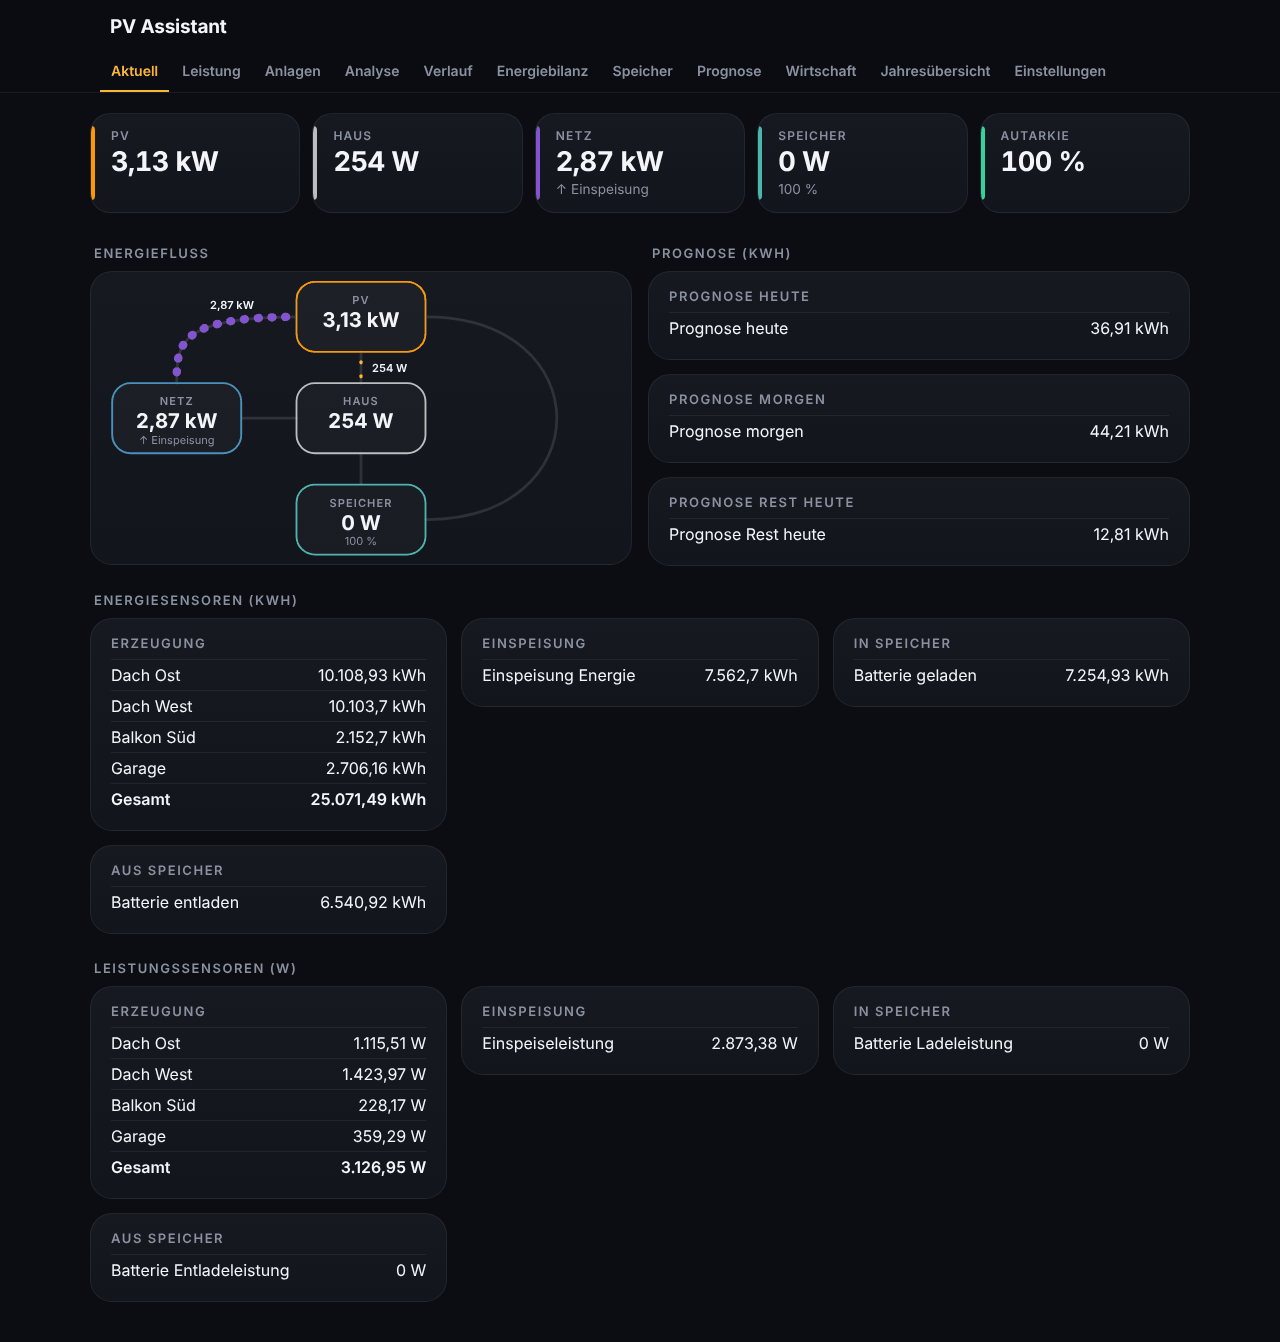
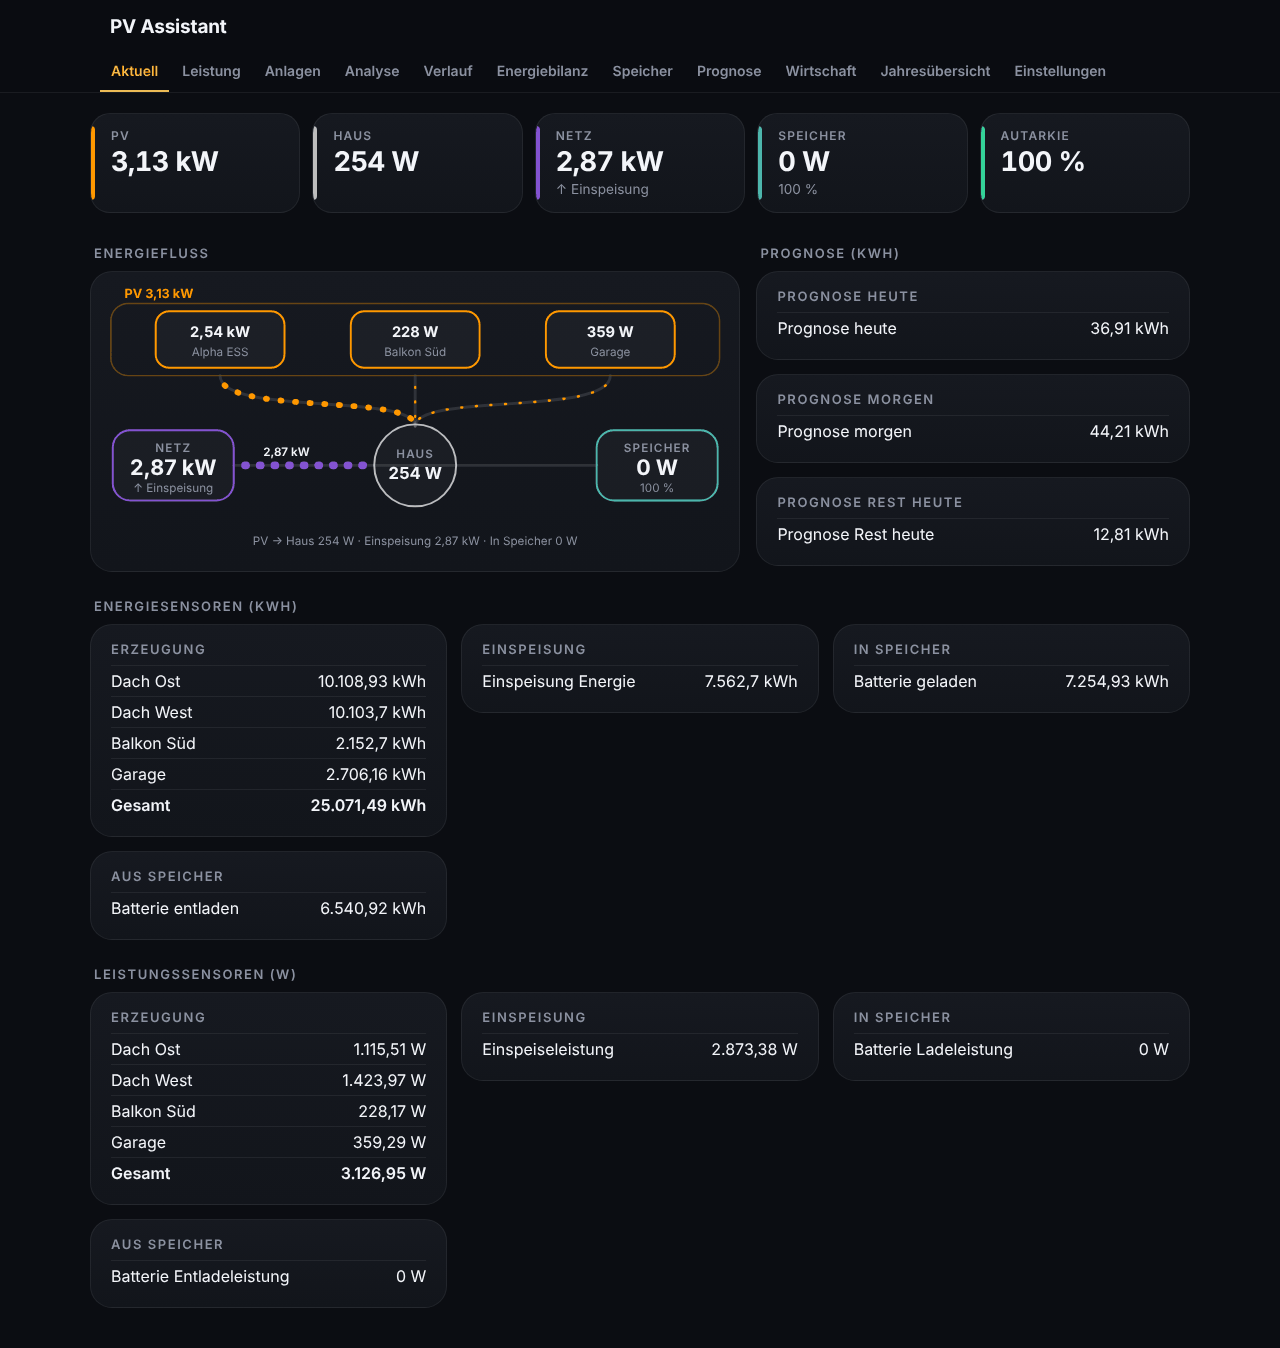
Show the solar plants in a row above the home in the energy flow, with their own power
Claude-Session: https://claude.ai/code/session_01TaJYM5KB2UjSXtUd6GEyfY

diff --git a/custom_components/pv_assistant/frontend/pv-assistant-panel.js b/custom_components/pv_assistant/frontend/pv-assistant-panel.js
@@ -514,17 +514,21 @@ class PVAssistantPanel extends HTMLElement {
           .kpi span { display:block; color:var(--g-muted); font-size:12px; letter-spacing:.1em; text-transform:uppercase; font-weight:600; }
           .kpi b { display:block; font-size:1.7em; font-weight:700; letter-spacing:-.02em; font-variant-numeric:tabular-nums; margin-top:2px; }
           .kpi small { color:var(--g-muted); font-size:.85em; }
-          .nowtop { display:grid; grid-template-columns:minmax(0,1fr) minmax(0,1fr); gap:0 16px; align-items:start; }
-          .nowtop:has(#nowside:empty) { grid-template-columns:minmax(0,560px); }
+          .nowtop { display:grid; grid-template-columns:minmax(0,3fr) minmax(0,2fr); gap:0 16px; align-items:start; }
+          .nowtop:has(#nowside:empty) { grid-template-columns:minmax(0,640px); }
           .grid.side { grid-template-columns:1fr; }
           @media (max-width:820px) { .nowtop { grid-template-columns:1fr; } }
           .flowcard { padding:8px 12px; }
-          svg.flow { display:block; width:100%; max-width:560px; margin:0 auto; color:var(--g-text); }
+          svg.flow { display:block; width:100%; max-width:640px; margin:0 auto; color:var(--g-text); }
           svg.flow .track { fill:none; stroke:currentColor; stroke-width:3; opacity:.12; stroke-linecap:round; }
           svg.flow .run { fill:none; stroke-linecap:round; stroke-dasharray:1 14; animation:pvaflow 1.1s linear infinite; }
           @keyframes pvaflow { to { stroke-dashoffset:-15; } }
           @media (prefers-reduced-motion: reduce) { svg.flow .run { animation:none; stroke-dasharray:none; opacity:.8; } }
           svg.flow .flowlbl { font-size:12px; font-weight:600; }
+          svg.flow .flowpv { font-size:15px; font-weight:700; }
+          svg.flow .flowpv.hub { font-size:17px; }
+          svg.flow .flowtotal { fill:var(--pva-prod); font-size:13px; font-weight:700; }
+          svg.flow .pvframe { fill:none; stroke:var(--pva-prod); stroke-opacity:.35; stroke-width:1.5; }
           svg.flow .flowbox { fill:var(--g-tile); stroke-width:2; }
           svg.flow text { fill:var(--g-text); font-family:inherit; }
           svg.flow .flowname { fill:var(--g-muted); font-size:12px; letter-spacing:.1em; text-transform:uppercase; font-weight:600; }
@@ -757,72 +761,110 @@ class PVAssistantPanel extends HTMLElement {
   _renderFlow() {
     const box = this._root.getElementById("flow");
     if (!box || !this._cfg) return;
-    if (!this._keys().P.prod.length) { box.replaceChildren(); this._flowBuilt = false; return; }
+    const P = this._keys().P;
+    if (!P.prod.length) { box.replaceChildren(); this._flowBuilt = false; return; }
     const NS = "http://www.w3.org/2000/svg";
     const el = (tag, attrs = {}, text) => { const n = document.createElementNS(NS, tag); for (const [k, v] of Object.entries(attrs)) n.setAttribute(k, v); if (text !== undefined) n.textContent = text; return n; };
+    const cut = (t, n) => (t.length > n ? `${t.slice(0, n - 1)}…` : t);
+    // the plants (inverters) in a row on top, the home in the middle, grid left and storage right
+    const plants = plantsOf(this._cfg.settings, P.prod).map((p) => ({
+      sensors: p.sensors,
+      name: p.name || p.sensors.map((id) => this._read(id).name).join(" + "),
+    }));
+    const layoutKey = plants.map((p) => p.sensors.join("+") + p.name).join("|");
+    if (this._flowBuilt && this._flowKey !== layoutKey) this._flowBuilt = false;
+    const HUB = [320, 190];
     if (!this._flowBuilt) {
       this._flowBuilt = true;
-      this._flow = {};
+      this._flowKey = layoutKey;
+      this._flow = { plants: [] };
       box.innerHTML = `<h2>${esc(this._t("flowTitle"))}</h2>`;
       const card = document.createElement("div");
       card.className = "card flowcard";
-      const svg = el("svg", { viewBox: "0 0 560 300", class: "flow", role: "img", "aria-label": this._t("flowTitle") });
-      // the home sits in the middle: solar above, grid left, storage below; solar to storage runs around the home on the right.
-      // flows: [key, path (source to destination), color, label x, y, anchor]
-      const flows = [
-        ["sh", "M280,78 L280,112", "--pva-direct", [292, 100, "start"]],
-        ["gh", "M150,150 L210,150", "--pva-grid", [180, 140, "middle"]],
-        ["bh", "M280,222 L280,188", "--pva-bout", [292, 210, "start"]],
-        ["sg", "M210,40 C80,40 80,70 80,112", "--pva-feed", [140, 32, "middle"]],
-        ["sb", "M350,40 C540,40 540,260 350,260", "--pva-bin", [525, 150, "end"]],
-      ];
-      for (const [key, d, color, [x, y, anchor]] of flows) {
+      const svg = el("svg", { viewBox: "0 0 640 290", class: "flow", role: "img", "aria-label": this._t("flowTitle") });
+      const n = plants.length;
+      const slot = 600 / n, bw = Math.min(132, slot - 8);
+      svg.append(el("rect", { x: 8, y: 24, width: 624, height: 74, rx: 18, class: "pvframe" }));
+      this._flow.total = el("text", { x: 22, y: 18, class: "flowtotal" });
+      svg.append(this._flow.total);
+      plants.forEach((p, i) => {
+        const cx = 20 + slot * (i + 0.5);
+        const d = `M${cx},98 C${cx},140 ${HUB[0]},115 ${HUB[0]},${HUB[1] - 40}`;
         svg.append(el("path", { d, class: "track" }));
-        const run = el("path", { d, class: "run", stroke: `var(${color})`, visibility: "hidden" });
-        const label = el("text", { x, y, "text-anchor": anchor, class: "flowlbl" });
-        svg.append(run, label);
-        this._flow[key] = { run, label };
-      }
-      const nodes = [
-        ["solar", 280, 40, "--pva-prod", this._t("flowSolar")],
-        ["home", 280, 150, "--pva-house", this._t("flowHome")],
-        ["grid", 80, 150, "--pva-grid", this._t("flowGrid")],
-        ["bat", 280, 260, "--pva-bout", this._t("flowBattery")],
-      ];
-      for (const [key, x, y, color, name] of nodes) {
+        const run = el("path", { d, class: "run", stroke: "var(--pva-prod)", visibility: "hidden" });
+        svg.append(run);
         const g = el("g", { class: "flownode" });
-        g.append(el("rect", { x: x - 70, y: y - 38, width: 140, height: 76, rx: 20, class: "flowbox", stroke: `var(${color})` }));
-        g.append(el("text", { x, y: y - 14, "text-anchor": "middle", class: "flowname" }, name));
-        const val = el("text", { x, y: y + 11, "text-anchor": "middle", class: "flowval" });
-        const sub = el("text", { x, y: y + 28, "text-anchor": "middle", class: "flowsub" });
-        g.append(val, sub);
+        g.append(el("rect", { x: cx - bw / 2, y: 32, width: bw, height: 58, rx: 14, class: "flowbox", stroke: "var(--pva-prod)" }));
+        const val = el("text", { x: cx, y: 58, "text-anchor": "middle", class: "flowpv" });
+        g.append(val, el("text", { x: cx, y: 78, "text-anchor": "middle", class: "flowsub" }, cut(p.name, Math.max(6, Math.floor(bw / 7)))));
         svg.append(g);
-        this._flow[key] = { g, val, sub };
-      }
+        this._flow.plants.push({ run, val, sensors: p.sensors });
+      });
+      // hub: the home
+      svg.append(el("circle", { cx: HUB[0], cy: HUB[1], r: 42, class: "flowbox", stroke: "var(--pva-house)" }));
+      svg.append(el("text", { x: HUB[0], y: HUB[1] - 8, "text-anchor": "middle", class: "flowname" }, this._t("flowHome")));
+      this._flow.home = el("text", { x: HUB[0], y: HUB[1] + 14, "text-anchor": "middle", class: "flowpv hub" });
+      svg.append(this._flow.home);
+      const side = (key, x, name, color) => {
+        const g = el("g", { class: "flownode" });
+        g.append(el("rect", { x: x - 62, y: HUB[1] - 36, width: 124, height: 72, rx: 18, class: "flowbox", stroke: `var(${color})` }));
+        g.append(el("text", { x, y: HUB[1] - 14, "text-anchor": "middle", class: "flowname" }, name));
+        const val = el("text", { x, y: HUB[1] + 10, "text-anchor": "middle", class: "flowval" });
+        const sub = el("text", { x, y: HUB[1] + 27, "text-anchor": "middle", class: "flowsub" });
+        g.append(val, sub);
+        const track = el("path", { d: `M${x < HUB[0] ? x + 62 : x - 62},${HUB[1]} L${HUB[0]},${HUB[1]}`, class: "track" });
+        const run = el("path", { class: "run", visibility: "hidden" });
+        const label = el("text", { x: (x + HUB[0]) / 2 + (x < HUB[0] ? -8 : 8), y: HUB[1] - 10, "text-anchor": "middle", class: "flowlbl" });
+        svg.append(track, run, g, label);
+        this._flow[key] = { g, val, sub, run, label, track, x };
+      };
+      side("grid", 72, this._t("flowGrid"), "--pva-grid");
+      side("bat", 568, this._t("flowBattery"), "--pva-bout");
+      this._flow.split = el("text", { x: HUB[0], y: 272, "text-anchor": "middle", class: "flowsub" });
+      svg.append(this._flow.split);
       card.append(svg);
       box.append(card);
     }
     const v = this._flowValues();
     this._renderKpis(v);
     const fmt = (x) => (x >= 1000 ? `${(x / 1000).toLocaleString(this._hass.locale?.language || this._hass.language, { maximumFractionDigits: 2 })} kW` : `${Math.round(x)} W`);
+    const watts = (id) => { const b = this._read(id).base; return Number.isNaN(b) ? 0 : Math.max(b, 0); };
+    const pw = this._flow.plants.map((p) => p.sensors.reduce((a, id) => a + watts(id), 0));
+    const pmax = Math.max(1, ...pw);
+    this._flow.plants.forEach((p, i) => {
+      p.val.textContent = fmt(pw[i]);
+      p.run.setAttribute("visibility", pw[i] >= 5 ? "visible" : "hidden");
+      p.run.setAttribute("stroke-width", (2 + 4 * Math.min(1, pw[i] / pmax)).toFixed(1));
+    });
+    this._flow.total.textContent = `${this._t("flowSolar")} ${fmt(v.prod)}`;
+    this._flow.home.textContent = fmt(v.house);
+    const feeding = v.feed > v.imp, charging = v.inn > v.out;
+    const line = (key, value, intoHub, color, show) => {
+      const f = this._flow[key];
+      f.g.style.display = show ? "" : "none";
+      f.track.style.display = show ? "" : "none";
+      const on = show && value >= 5;
+      const edge = f.x < HUB[0] ? f.x + 62 : f.x - 62;
+      f.run.setAttribute("d", intoHub ? `M${edge},${HUB[1]} L${HUB[0] + (f.x < HUB[0] ? -42 : 42)},${HUB[1]}` : `M${HUB[0] + (f.x < HUB[0] ? -42 : 42)},${HUB[1]} L${edge},${HUB[1]}`);
+      f.run.setAttribute("stroke", `var(${color})`);
+      f.run.setAttribute("stroke-width", (3 + 5 * Math.min(1, value / Math.max(pmax, 1))).toFixed(1));
+      f.run.setAttribute("visibility", on ? "visible" : "hidden");
+      f.label.textContent = on ? fmt(value) : "";
+      f.g.querySelector("rect").setAttribute("stroke", `var(${color})`);
+    };
+    const grid = Math.max(v.imp, v.feed), bat = Math.max(v.out, v.inn);
+    line("grid", grid, !feeding, feeding ? "--pva-feed" : "--pva-grid", v.hasGrid);
+    line("bat", bat, !charging, charging ? "--pva-bin" : "--pva-bout", v.hasBat);
+    if (v.hasGrid) { this._flow.grid.val.textContent = fmt(grid); this._flow.grid.sub.textContent = feeding ? `↑ ${this._t("feed")}` : v.imp > 0 ? `↓ ${this._t("gridImp")}` : ""; }
+    if (v.hasBat) {
+      this._flow.bat.val.textContent = fmt(bat);
+      this._flow.bat.sub.textContent = [charging ? `↓ ${this._t("sin")}` : v.out > 0 ? `↑ ${this._t("sout")}` : "", v.soc != null ? `${Math.round(v.soc)} %` : ""].filter(Boolean).join(" · ");
+    }
+    // where the solar power goes
     const direct = Math.max(0, Math.min(v.prod, v.prod - v.feed - v.inn));
     const toBat = Math.min(v.inn, Math.max(0, v.prod - v.feed));
-    const f = { sh: direct, gh: v.imp, bh: v.out, sg: v.feed, sb: toBat };
-    const max = Math.max(1, ...Object.values(f));
-    for (const [key, value] of Object.entries(f)) {
-      const { run, label } = this._flow[key];
-      const on = value >= 5 && (key === "sg" || key === "gh" ? v.hasGrid : key === "sb" || key === "bh" ? v.hasBat : true);
-      run.setAttribute("visibility", on ? "visible" : "hidden");
-      run.setAttribute("stroke-width", (3 + 6 * Math.min(1, value / max)).toFixed(1));
-      label.textContent = on ? fmt(value) : "";
-    }
-    const set = (key, val, sub = "") => { this._flow[key].val.textContent = val; this._flow[key].sub.textContent = sub; };
-    set("solar", fmt(v.prod));
-    set("home", fmt(v.house));
-    this._flow.grid.g.style.display = v.hasGrid ? "" : "none";
-    this._flow.bat.g.style.display = v.hasBat ? "" : "none";
-    if (v.hasGrid) set("grid", fmt(Math.max(v.imp, v.feed)), v.feed > v.imp ? `↑ ${this._t("feed")}` : v.imp > 0 ? `↓ ${this._t("gridImp")}` : "");
-    if (v.hasBat) set("bat", fmt(Math.max(v.out, v.inn)), [v.inn > v.out ? `↓ ${this._t("sin")}` : v.out > 0 ? `↑ ${this._t("sout")}` : "", v.soc != null ? `${Math.round(v.soc)} %` : ""].filter(Boolean).join(" · "));
+    this._flow.split.textContent = [`${this._t("flowSolar")} → ${this._t("flowHome")} ${fmt(direct)}`,
+      v.hasGrid ? `${this._t("feed")} ${fmt(v.feed)}` : "", v.hasBat ? `${this._t("sin")} ${fmt(toBat)}` : ""].filter(Boolean).join(" · ");
   }
 
   _renderKpis(v) {
